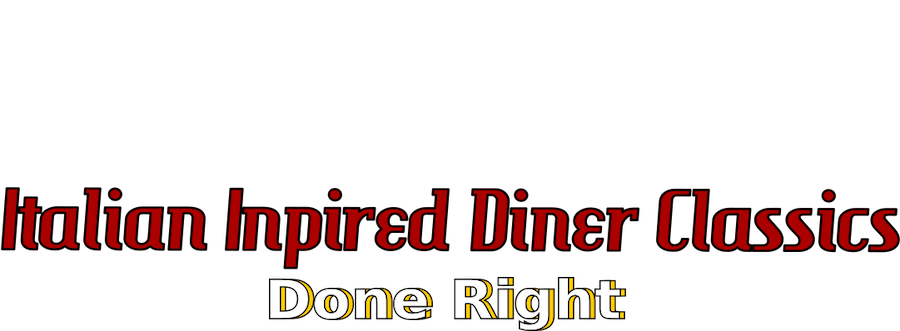
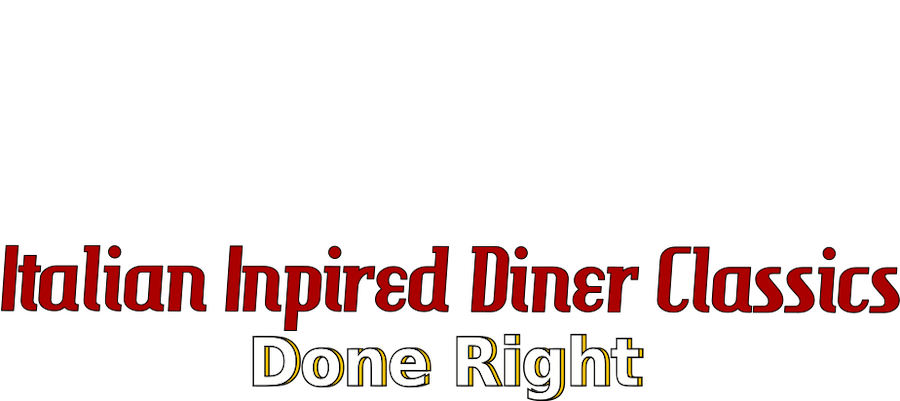
restyled buttons. added padding to bordering components

Changed region(s): [[0.0, 0.5438, 1.0, 1.0]]

diff --git a/src/app/buttons/buttons.component.css b/src/app/buttons/buttons.component.css
@@ -1,14 +1,11 @@
 .wrapper{
     text-align: center;
-    padding-bottom: 50px;
-    padding-top: 50px;
-    background-color: #f0f0f5;
+    position: relative;
 }
 
-.button1, .button2, .button3{
+#button1, #button2, #button3{
     border-radius: 25px;
     border: 2px solid black;
-    padding: 5px; 
     margin: 20px;
     width: 250px;
     height: 60px;
@@ -18,13 +15,27 @@
     color: black;
 }
 
-.button1:hover, .button2:hover, .button3:hover{
+#button1:hover, #button2:hover, #button3:hover{
     transform: scale(1.02);
-    box-shadow: 7px 7px #0da58e;
+    box-shadow: 7px 7px black;
     cursor: pointer;
 }
 
-.button1.focus, .button1:focus, .button2.focus, .button2:focus, .button3.focus, .button3:focus {
+#button1.focus, #button1:focus, #button2.focus, #button2:focus, #button3.focus, #button3:focus {
     outline: 0;
     box-shadow: none!important;
+}
+
+.buttons{
+    position: absolute;
+    z-index: .5;
+    bottom: 0;
+    display: inline-block
+}
+
+#blueBox{
+    background-color: #0da58e;
+    height: 50px;
+    width: 900px;
+    display: inline-block
 }

diff --git a/src/app/buttons/buttons.component.html b/src/app/buttons/buttons.component.html
@@ -1,8 +1,10 @@
 <div class="wrapper">
-    <button class="button1">Menu</button>
+    <div class="buttons">
+        <button id="button1">Menu</button>
+        <button id="button2" (click)="goToGoogleMaps()">Directions</button>
+        <button id="button3" (click)="contactUs()">Contact</button>
+    </div>
 
-    <button class="button2" (click)="goToGoogleMaps()">Directions</button>
-
-    <button class="button3" (click)="contactUs()">Contact</button>
+    <div id="blueBox"></div>
 </div>
 

diff --git a/src/app/about-us/about-us.component.css b/src/app/about-us/about-us.component.css
@@ -1,5 +1,5 @@
 .aboutUsHeader {
-    padding-top: 650px;
+    padding-top: 575px;
     padding-bottom: 10px;
     text-align: center;  
 }
@@ -10,5 +10,5 @@
     display: grid;
     grid-template-columns: 28% 44% 28%;
     font-size: 22px;
-    padding-bottom: 20px;
+    padding-bottom: 60px;
 }

diff --git a/src/app/header/header.component.html b/src/app/header/header.component.html
@@ -1,7 +1,7 @@
 <header>
     <body>
         <div class="buzzsawDinerLogo">
-            <img src="assets/img/thebuzzsawdinerlogo.png" alt="The Buzzsaw Logo">
+            <img src="assets/img/thebuzzsawdinerlogotwo.png" alt="The Buzzsaw Logo">
         </div>
     </body>
 </header>

diff --git a/src/app/owners/owners.component.html b/src/app/owners/owners.component.html
@@ -2,7 +2,7 @@
     <hr>
 
     <div id="theBuzzsawStoryImage">
-        <img src="assets/img/thebuzzsawstory.png" alt="The Buzzsaw Diner Story">
+        <img src="assets/img/owners-blurb.png" alt="The Buzzsaw Diner Story">
     </div>
 
     <div id="wrapper">

diff --git a/src/app/relief-picture/relief-picture.component.css b/src/app/relief-picture/relief-picture.component.css
@@ -5,9 +5,8 @@ html, body{
 
 img {
     width: 100%;
+    padding-top: 30px;
+    padding-bottom: 10px;
 
 }
 
-.frontPageBurgerPicture{
-    display: block;
-}

diff --git a/src/app/owners/owners.component.css b/src/app/owners/owners.component.css
@@ -1,6 +1,7 @@
 #largerWrapper{
     padding-top: 10px;
     padding-bottom: 10px;
+    background-color: #f0f0f5;
 }
 
 #wrapper{

diff --git a/src/app/app.component.css b/src/app/app.component.css
@@ -1,0 +1,3 @@
+*{
+    background-color: #f0f0f5;
+}
